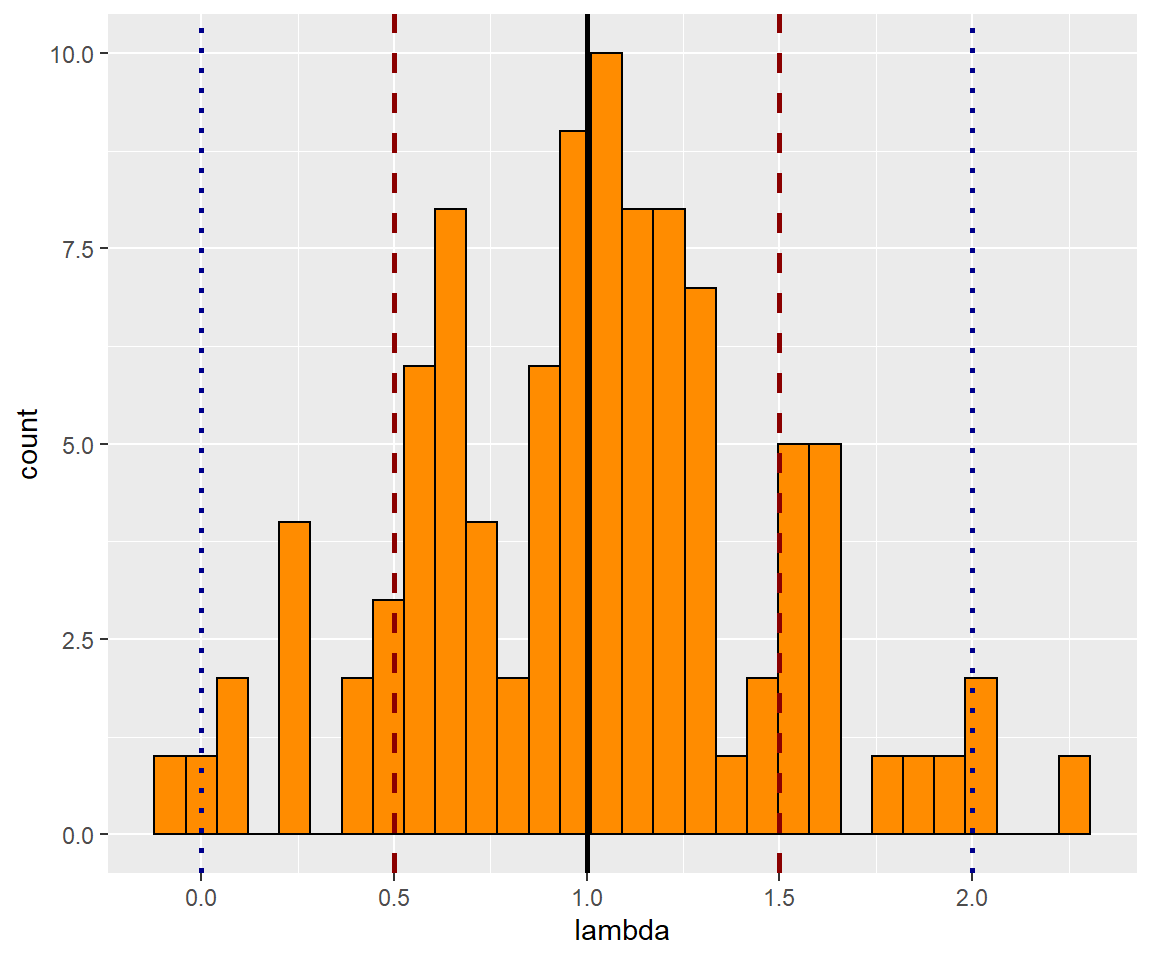
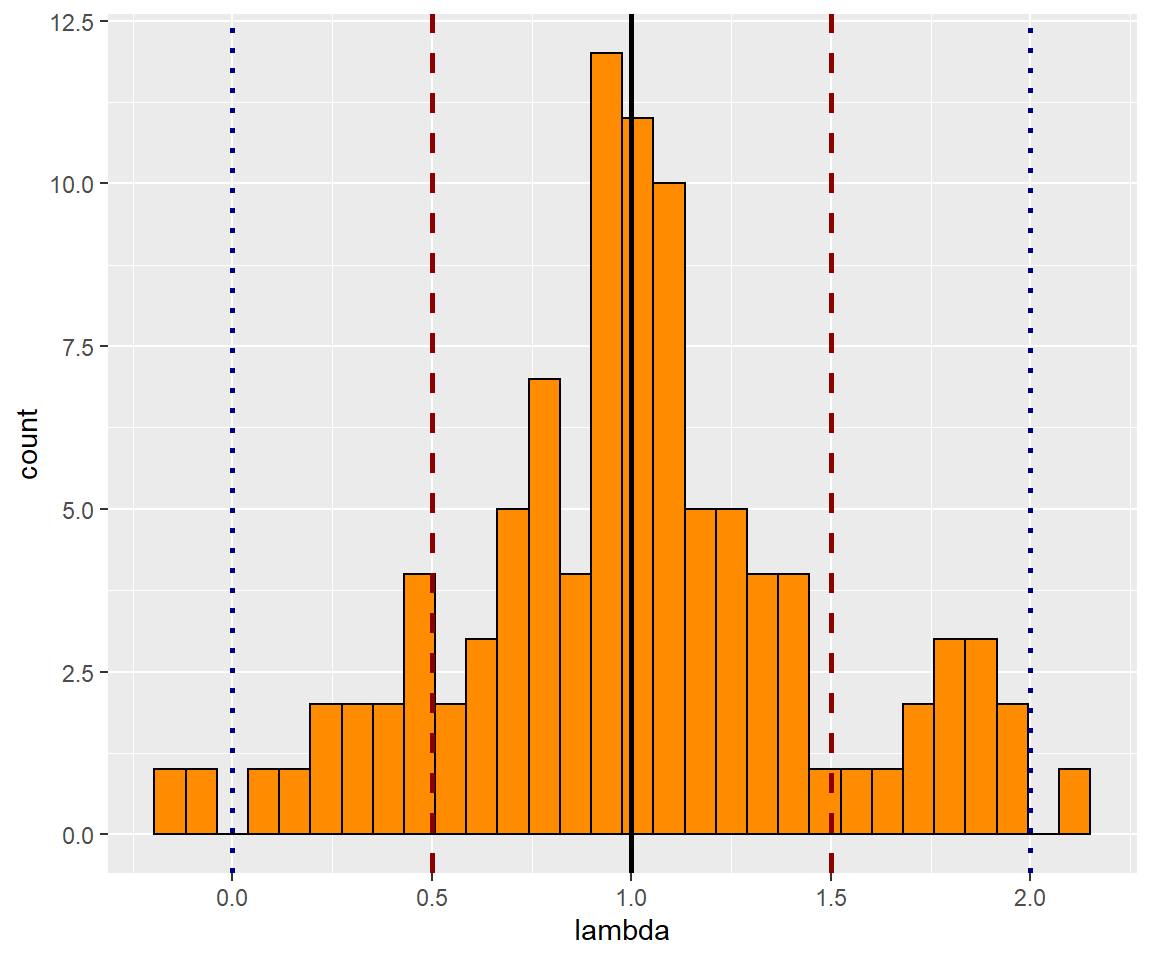
update drift manual

diff --git a/_book/stochastic-genetic-effects.html b/_book/stochastic-genetic-effects.html
@@ -306,14 +306,14 @@ Here is an example of a concise definition: Genetic drift describes the random f
 <span id="cb222-3"><a href="stochastic-genetic-effects.html#cb222-3"></a><span class="kw">table</span>(genepool)</span></code></pre></div>
 <pre><code>## genepool
 ## Allele-1 Allele-2 
-##       15        5</code></pre>
+##        7       13</code></pre>
 <p>To model the generation after that (Gen-2), we will do the same thing, except now we will make the same random draw from Gen-1.</p>
 <div class="sourceCode" id="cb224"><pre class="sourceCode r"><code class="sourceCode r"><span id="cb224-1"><a href="stochastic-genetic-effects.html#cb224-1"></a>genepool &lt;-<span class="st"> </span><span class="kw">sample</span>(genepool, <span class="dv">20</span>, <span class="dt">replace =</span> <span class="ot">TRUE</span>)</span>
 <span id="cb224-2"><a href="stochastic-genetic-effects.html#cb224-2"></a></span>
 <span id="cb224-3"><a href="stochastic-genetic-effects.html#cb224-3"></a><span class="kw">table</span>(genepool)</span></code></pre></div>
 <pre><code>## genepool
 ## Allele-1 Allele-2 
-##       17        3</code></pre>
+##        8       12</code></pre>
 <p>We start to see how our allele counts (frequencies) start to drift, from generation to generation. They do not shift much f you are comparing two adjacent generations, but once you do this for several generations it is possible that the frequencies vary considerable from our initial equal distribution.</p>
 <p>We can use a <code>for loop</code> to run this for 15 generations.</p>
 <div class="sourceCode" id="cb226"><pre class="sourceCode r"><code class="sourceCode r"><span id="cb226-1"><a href="stochastic-genetic-effects.html#cb226-1"></a><span class="co"># number of generations</span></span>
@@ -371,78 +371,78 @@ Here is an example of a concise definition: Genetic drift describes the random f
 </tr>
 <tr class="even">
 <td align="right">1</td>
-<td align="right">9</td>
-<td align="right">11</td>
+<td align="right">10</td>
+<td align="right">10</td>
 </tr>
 <tr class="odd">
 <td align="right">2</td>
-<td align="right">9</td>
 <td align="right">11</td>
+<td align="right">9</td>
 </tr>
 <tr class="even">
 <td align="right">3</td>
-<td align="right">10</td>
-<td align="right">10</td>
+<td align="right">12</td>
+<td align="right">8</td>
 </tr>
 <tr class="odd">
 <td align="right">4</td>
-<td align="right">10</td>
-<td align="right">10</td>
+<td align="right">11</td>
+<td align="right">9</td>
 </tr>
 <tr class="even">
 <td align="right">5</td>
-<td align="right">8</td>
 <td align="right">12</td>
+<td align="right">8</td>
 </tr>
 <tr class="odd">
 <td align="right">6</td>
-<td align="right">10</td>
-<td align="right">10</td>
+<td align="right">14</td>
+<td align="right">6</td>
 </tr>
 <tr class="even">
 <td align="right">7</td>
-<td align="right">10</td>
-<td align="right">10</td>
+<td align="right">11</td>
+<td align="right">9</td>
 </tr>
 <tr class="odd">
-<td align="right">8</td>
-<td align="right">9</td>
-<td align="right">11</td>
-</tr>
-<tr class="even">
-<td align="right">9</td>
 <td align="right">8</td>
 <td align="right">12</td>
-</tr>
-<tr class="odd">
-<td align="right">10</td>
-<td align="right">5</td>
-<td align="right">15</td>
+<td align="right">8</td>
 </tr>
 <tr class="even">
-<td align="right">11</td>
+<td align="right">9</td>
+<td align="right">13</td>
 <td align="right">7</td>
-<td align="right">13</td>
+</tr>
+<tr class="odd">
+<td align="right">10</td>
+<td align="right">14</td>
+<td align="right">6</td>
+</tr>
+<tr class="even">
+<td align="right">11</td>
+<td align="right">16</td>
+<td align="right">4</td>
 </tr>
 <tr class="odd">
 <td align="right">12</td>
-<td align="right">4</td>
-<td align="right">16</td>
+<td align="right">17</td>
+<td align="right">3</td>
 </tr>
 <tr class="even">
 <td align="right">13</td>
-<td align="right">4</td>
-<td align="right">16</td>
+<td align="right">18</td>
+<td align="right">2</td>
 </tr>
 <tr class="odd">
 <td align="right">14</td>
-<td align="right">4</td>
 <td align="right">16</td>
+<td align="right">4</td>
 </tr>
 <tr class="even">
 <td align="right">15</td>
-<td align="right">5</td>
-<td align="right">15</td>
+<td align="right">18</td>
+<td align="right">2</td>
 </tr>
 </tbody>
 </table>
@@ -810,14 +810,15 @@ Argue how you expect the genetic diversity (both in terms of allele frequencies 
 <span id="cb230-12"><a href="stochastic-genetic-effects.html#cb230-12"></a><span class="st">  </span><span class="kw">slice_min</span>(<span class="dt">order_by =</span> Time, <span class="dt">n =</span> <span class="dv">1</span>) <span class="op">%&gt;%</span></span>
 <span id="cb230-13"><a href="stochastic-genetic-effects.html#cb230-13"></a><span class="st">  </span><span class="kw">select</span>(Scenario, Time) <span class="op">%&gt;%</span></span>
 <span id="cb230-14"><a href="stochastic-genetic-effects.html#cb230-14"></a><span class="st">  </span><span class="kw">distinct</span>()</span>
-<span id="cb230-15"><a href="stochastic-genetic-effects.html#cb230-15"></a><span class="kw">ggplot</span>(founder, <span class="kw">aes</span>(<span class="dt">x =</span> Time, <span class="dt">y =</span> Freq, <span class="dt">color =</span> Allele)) <span class="op">+</span></span>
-<span id="cb230-16"><a href="stochastic-genetic-effects.html#cb230-16"></a><span class="st">  </span><span class="kw">geom_line</span>(<span class="dt">size =</span> <span class="fl">0.6</span>) <span class="op">+</span></span>
-<span id="cb230-17"><a href="stochastic-genetic-effects.html#cb230-17"></a><span class="st">  </span><span class="kw">geom_vline</span>(<span class="dt">data =</span> K, <span class="kw">aes</span>(<span class="dt">xintercept =</span> Time), <span class="dt">linetype =</span> <span class="st">"dotted"</span>) <span class="op">+</span></span>
-<span id="cb230-18"><a href="stochastic-genetic-effects.html#cb230-18"></a><span class="st">  </span><span class="kw">scale_color_manual</span>(<span class="dt">values =</span> <span class="kw">c</span>(<span class="st">"blue"</span>, <span class="st">"darkred"</span>, <span class="st">"gold"</span>)) <span class="op">+</span></span>
-<span id="cb230-19"><a href="stochastic-genetic-effects.html#cb230-19"></a><span class="st">  </span><span class="kw">scale_y_continuous</span>(<span class="dt">limits =</span> <span class="kw">c</span>(<span class="dv">0</span>, <span class="dv">1</span>)) <span class="op">+</span></span>
-<span id="cb230-20"><a href="stochastic-genetic-effects.html#cb230-20"></a><span class="st">  </span><span class="kw">facet_grid</span>(Scenario <span class="op">~</span><span class="st"> </span>Category) <span class="op">+</span></span>
-<span id="cb230-21"><a href="stochastic-genetic-effects.html#cb230-21"></a><span class="st">  </span><span class="kw">labs</span>(<span class="dt">x =</span> <span class="st">"time"</span>, <span class="dt">y =</span> <span class="st">"allele freq"</span>) <span class="op">+</span></span>
-<span id="cb230-22"><a href="stochastic-genetic-effects.html#cb230-22"></a><span class="st">  </span><span class="kw">theme</span>(<span class="dt">legend.position =</span> <span class="st">"none"</span>)</span></code></pre></div>
+<span id="cb230-15"><a href="stochastic-genetic-effects.html#cb230-15"></a></span>
+<span id="cb230-16"><a href="stochastic-genetic-effects.html#cb230-16"></a><span class="kw">ggplot</span>(founder, <span class="kw">aes</span>(<span class="dt">x =</span> Time, <span class="dt">y =</span> Freq, <span class="dt">color =</span> Allele)) <span class="op">+</span></span>
+<span id="cb230-17"><a href="stochastic-genetic-effects.html#cb230-17"></a><span class="st">  </span><span class="kw">geom_line</span>(<span class="dt">size =</span> <span class="fl">0.6</span>) <span class="op">+</span></span>
+<span id="cb230-18"><a href="stochastic-genetic-effects.html#cb230-18"></a><span class="st">  </span><span class="kw">geom_vline</span>(<span class="dt">data =</span> K, <span class="kw">aes</span>(<span class="dt">xintercept =</span> Time), <span class="dt">linetype =</span> <span class="st">"dotted"</span>) <span class="op">+</span></span>
+<span id="cb230-19"><a href="stochastic-genetic-effects.html#cb230-19"></a><span class="st">  </span><span class="kw">scale_color_manual</span>(<span class="dt">values =</span> <span class="kw">c</span>(<span class="st">"blue"</span>, <span class="st">"darkred"</span>, <span class="st">"gold"</span>)) <span class="op">+</span></span>
+<span id="cb230-20"><a href="stochastic-genetic-effects.html#cb230-20"></a><span class="st">  </span><span class="kw">scale_y_continuous</span>(<span class="dt">limits =</span> <span class="kw">c</span>(<span class="dv">0</span>, <span class="dv">1</span>)) <span class="op">+</span></span>
+<span id="cb230-21"><a href="stochastic-genetic-effects.html#cb230-21"></a><span class="st">  </span><span class="kw">facet_grid</span>(Scenario <span class="op">~</span><span class="st"> </span>Category) <span class="op">+</span></span>
+<span id="cb230-22"><a href="stochastic-genetic-effects.html#cb230-22"></a><span class="st">  </span><span class="kw">labs</span>(<span class="dt">x =</span> <span class="st">"time"</span>, <span class="dt">y =</span> <span class="st">"allele freq"</span>) <span class="op">+</span></span>
+<span id="cb230-23"><a href="stochastic-genetic-effects.html#cb230-23"></a><span class="st">  </span><span class="kw">theme</span>(<span class="dt">legend.position =</span> <span class="st">"none"</span>)</span></code></pre></div>
 <div class="figure">
 <span id="fig:unnamed-chunk-231"></span>
 <p class="caption marginnote shownote">
@@ -831,7 +832,7 @@ Figure 14.3: Change in allele frequencies on the mainland and an island populati
 </p>
 <div class="question-body">
 <p>
-Give a brief description of the major patterns you observe. This should include comparing difference among the sizes of founder effects and the carrying capcity of the island (think back to your answers to the questions above), differences among runs of the scenarios, and how different the island population is from the mainland population it originated from over time.
+Give a brief description of the major patterns you observe. This should include comparing difference among the sizes of founder effects and the carrying capacity of the island (think back to your answers to the questions above), differences among runs of the scenarios, and how different the island population is from the mainland population it originated from over time.
 </p>
 <p class="question-end">
 <span class="fa fa-square-o solution-icon"></span>

diff --git a/_book/iucn-redlist-evaluation.html b/_book/iucn-redlist-evaluation.html
@@ -741,8 +741,8 @@ Some advice<span id="sol-start-15" class="fa fa-plus-square solution-icon clicka
 <div class="sourceCode" id="cb119"><pre class="sourceCode r"><code class="sourceCode r"><span id="cb119-1"><a href="iucn-redlist-evaluation.html#cb119-1"></a><span class="co"># regions in the database</span></span>
 <span id="cb119-2"><a href="iucn-redlist-evaluation.html#cb119-2"></a><span class="kw">rl_regions</span>(<span class="dt">key =</span> rlkey)<span class="op">$</span>results</span></code></pre></div>
 <pre><code>##                   name          identifier
-## 1  Northeastern Africa northeastern_africa
-## 2       Eastern Africa      eastern_africa
+## 1       Eastern Africa      eastern_africa
+## 2  Northeastern Africa northeastern_africa
 ## 3               Global              global
 ## 4       Western Africa      western_africa
 ## 5      Northern Africa     northern_africa

diff --git a/_book/population-modeling.html b/_book/population-modeling.html
@@ -1912,13 +1912,13 @@ Give a brief explanation of the benefit of running a larger number of trials and
 <tbody>
 <tr class="odd">
 <td align="left">FALSE</td>
-<td align="right">78</td>
-<td align="right">0.78</td>
+<td align="right">74</td>
+<td align="right">0.74</td>
 </tr>
 <tr class="even">
 <td align="left">TRUE</td>
-<td align="right">22</td>
-<td align="right">0.22</td>
+<td align="right">26</td>
+<td align="right">0.26</td>
 </tr>
 </tbody>
 </table>
